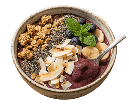
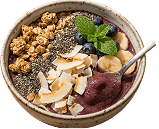
adding styling and preparing products style

diff --git a/assets/JS/script.js b/assets/JS/script.js
@@ -6,8 +6,7 @@ fetch("http://localhost/7.1-Module-Kiosk-2026/api/products.php")
     // data.data contains the products array
     const products = data.data.items;
     const container = document.getElementsByClassName("scroll-container")[0];
-    const products_container =
-      document.getElementsByClassName("products-container")[0];
+    const products_container = document.getElementById("products-container");
     // Group products by category
     const categories = {};
     products.forEach((product) => {
@@ -25,6 +24,16 @@ fetch("http://localhost/7.1-Module-Kiosk-2026/api/products.php")
                         </button>
                     `;
       container.innerHTML += html;
+    });
+
+    products.forEach((product) => {
+      const html = `
+                        <div class ="product">
+                        <img src="${product.filename}" >
+                            <p class="">${product.name}</p>
+                        </div>
+                    `;
+      products_container.innerHTML += html;
     });
   });
 // <p>${product.description}</p>

diff --git a/assets/CSS/style.css b/assets/CSS/style.css
@@ -9,14 +9,15 @@
   font-family: "Noto Sans", sans-serif;
 }
 .scroll-container {
-  height: 1575px;
-  width: 266px;
+  height: 100vh;
+  width: 24vw;
   overflow-y: scroll;
   border: 1px solid #ccc;
 }
 .scroll-item {
-  height: 200px;
-  width: 228px;
+  min-height: 200px;
+  height: auto;
+  width: 17vw;
   background-color: #ffffff;
   margin: 69px auto;
   border: 1px solid #000000;
@@ -24,6 +25,7 @@
   display: flex;
   flex-direction: column;
   align-items: center;
+  justify-content: center;
 }
 .scroll-item img {
   width: 90%;
@@ -37,4 +39,28 @@
   color: #000000;
   margin: 0;
   font-family: "Noto Sans", sans-serif;
+}
+main {
+  display: flex;
+}
+#products-container {
+  display: grid;
+  grid-template-columns: repeat(3, 1fr);
+  gap: 20px;
+  padding: 20px;
+  width: 80%;
+}
+.product {
+  height: 15vh;
+  /* width: 20vw; */
+  display: flex;
+  flex-direction: column;
+  justify-content: center;
+  align-items: center;
+  border: 1px solid black;
+  border-radius: 10px;
+}
+.product img {
+  height: 30%;
+  width: 50%;
 }

diff --git a/test2.html b/test2.html
@@ -12,8 +12,8 @@
         position: fixed;
         top: 0;
         left: 0;
-        width: 100%;
-        height: 100%;
+        /* width: 100%; */
+        /* height: 100%; */
         background-color: white;
         display: flex;
         align-items: center;
@@ -102,10 +102,10 @@
       </a>
     </div>
 
-    <!-- Main content (hidden behind idle initially) -->
-    <aside class="scroll-container"></aside>
-    <div id="products-container"></div>
-
+    <main>
+      <aside class="scroll-container"></aside>
+      <div id="products-container"></div>
+    </main>
     <script>
       // Hide idle screen on click
       document
